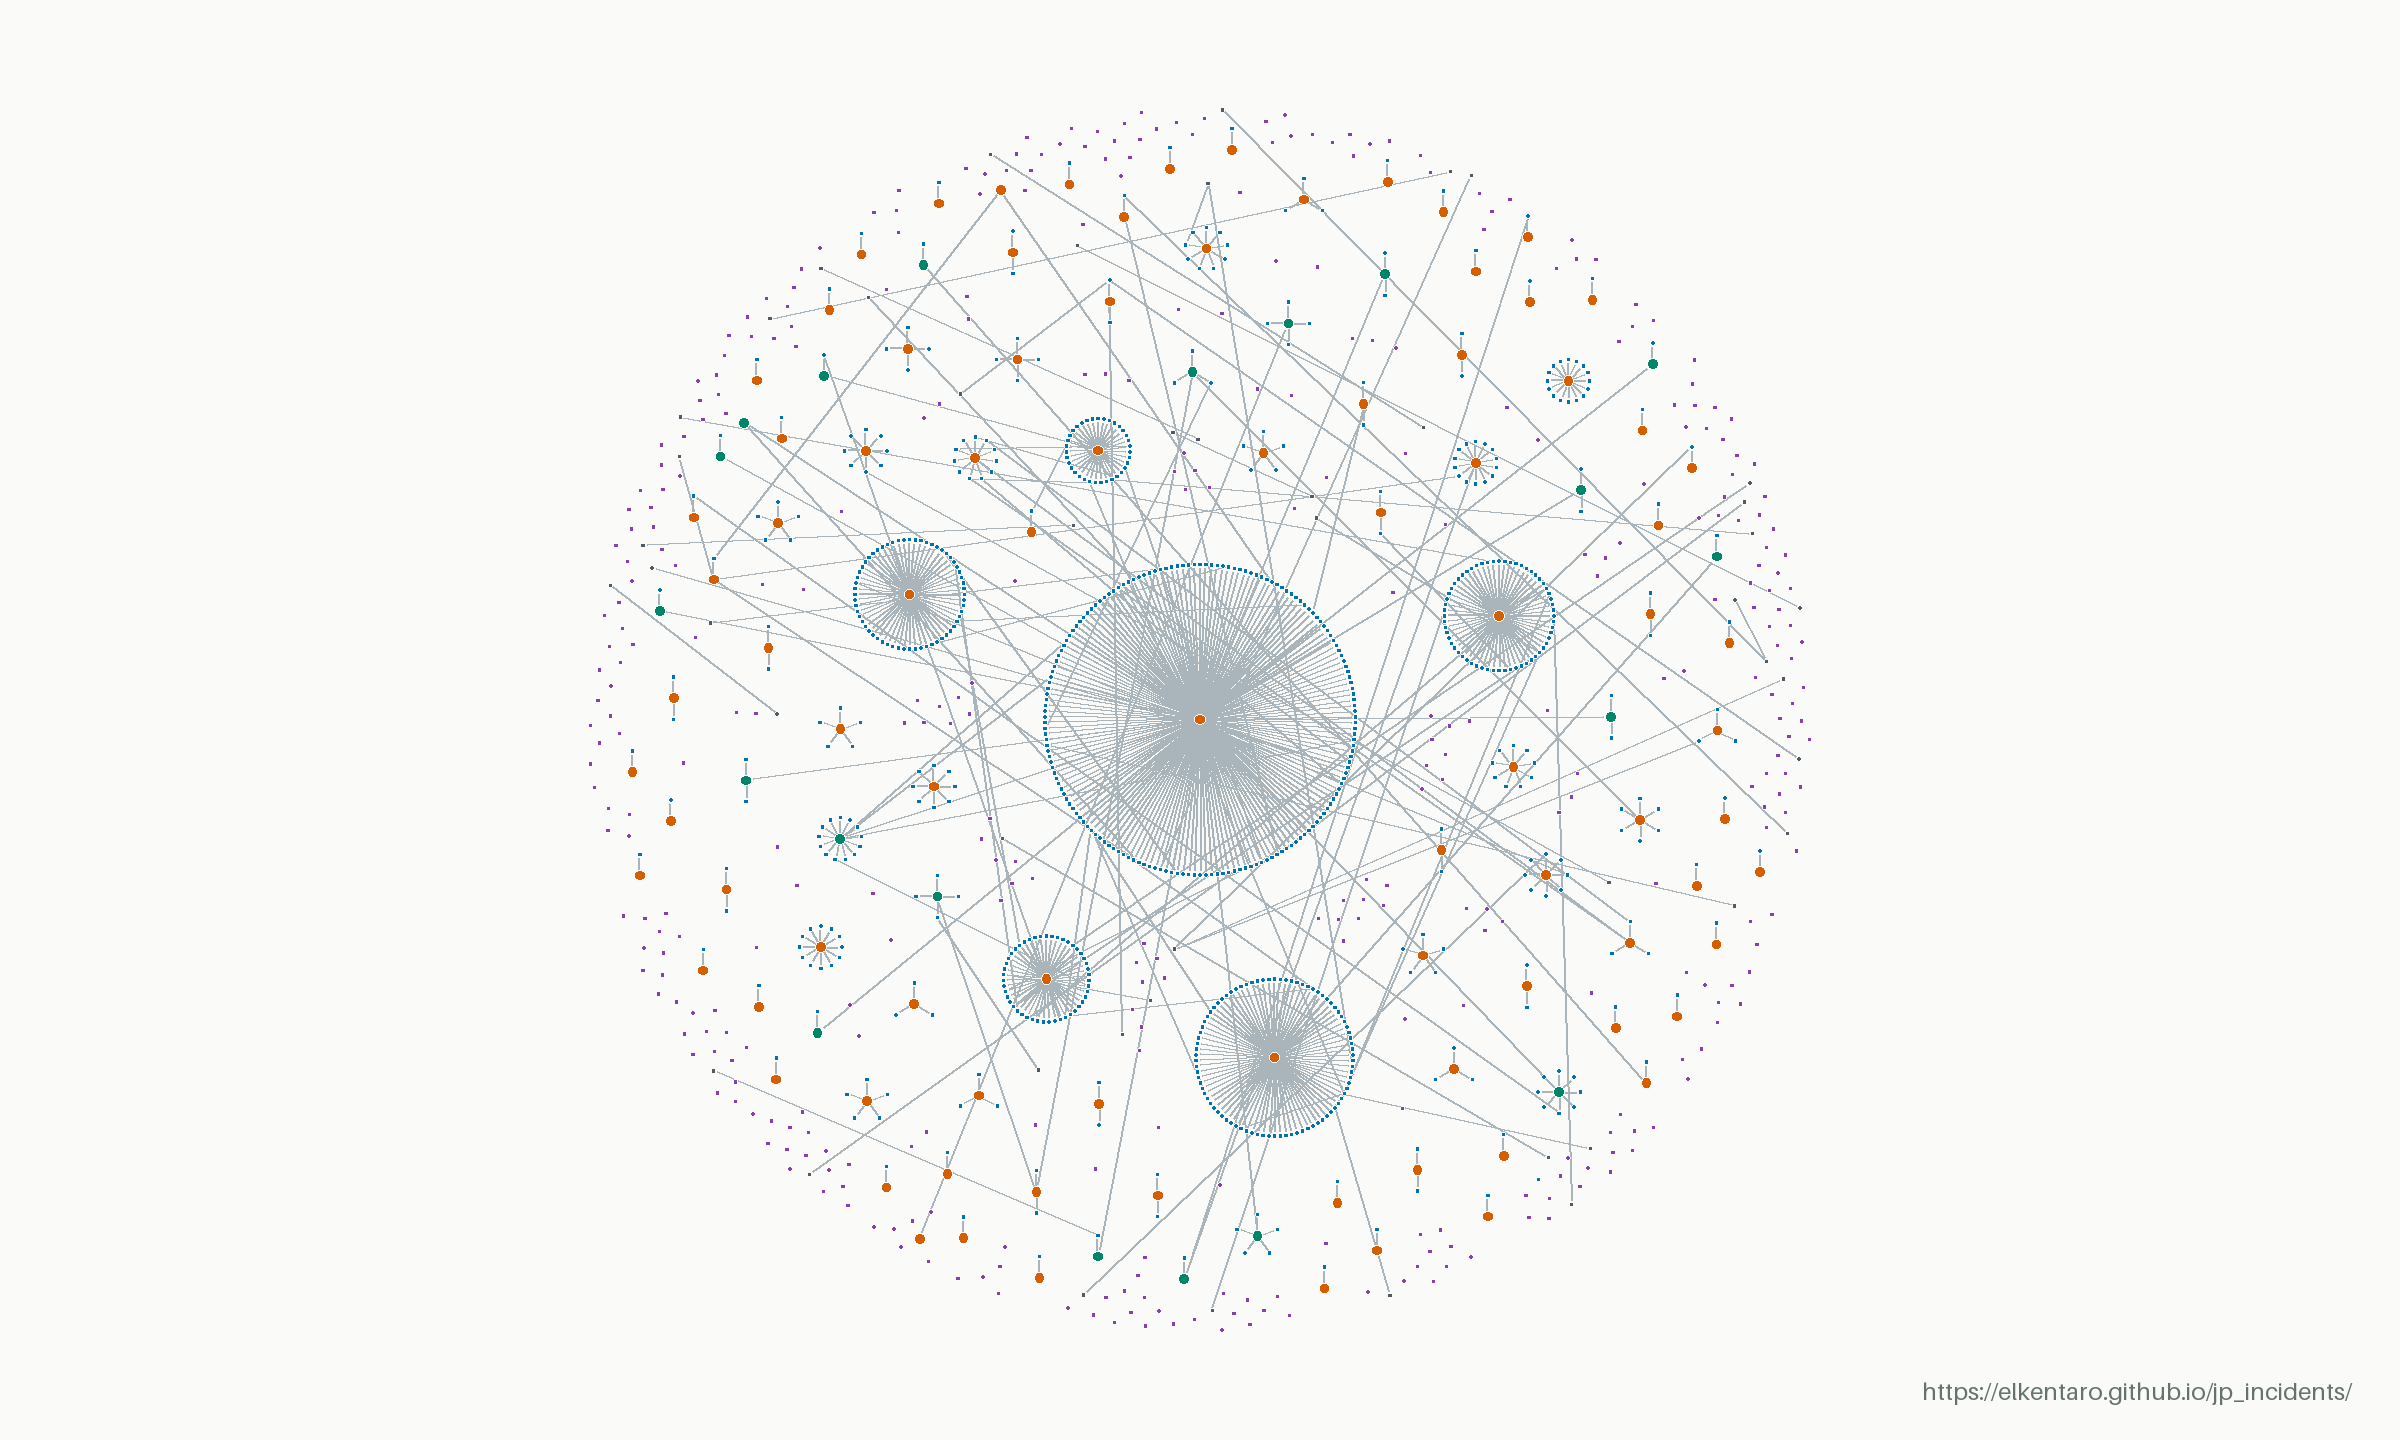
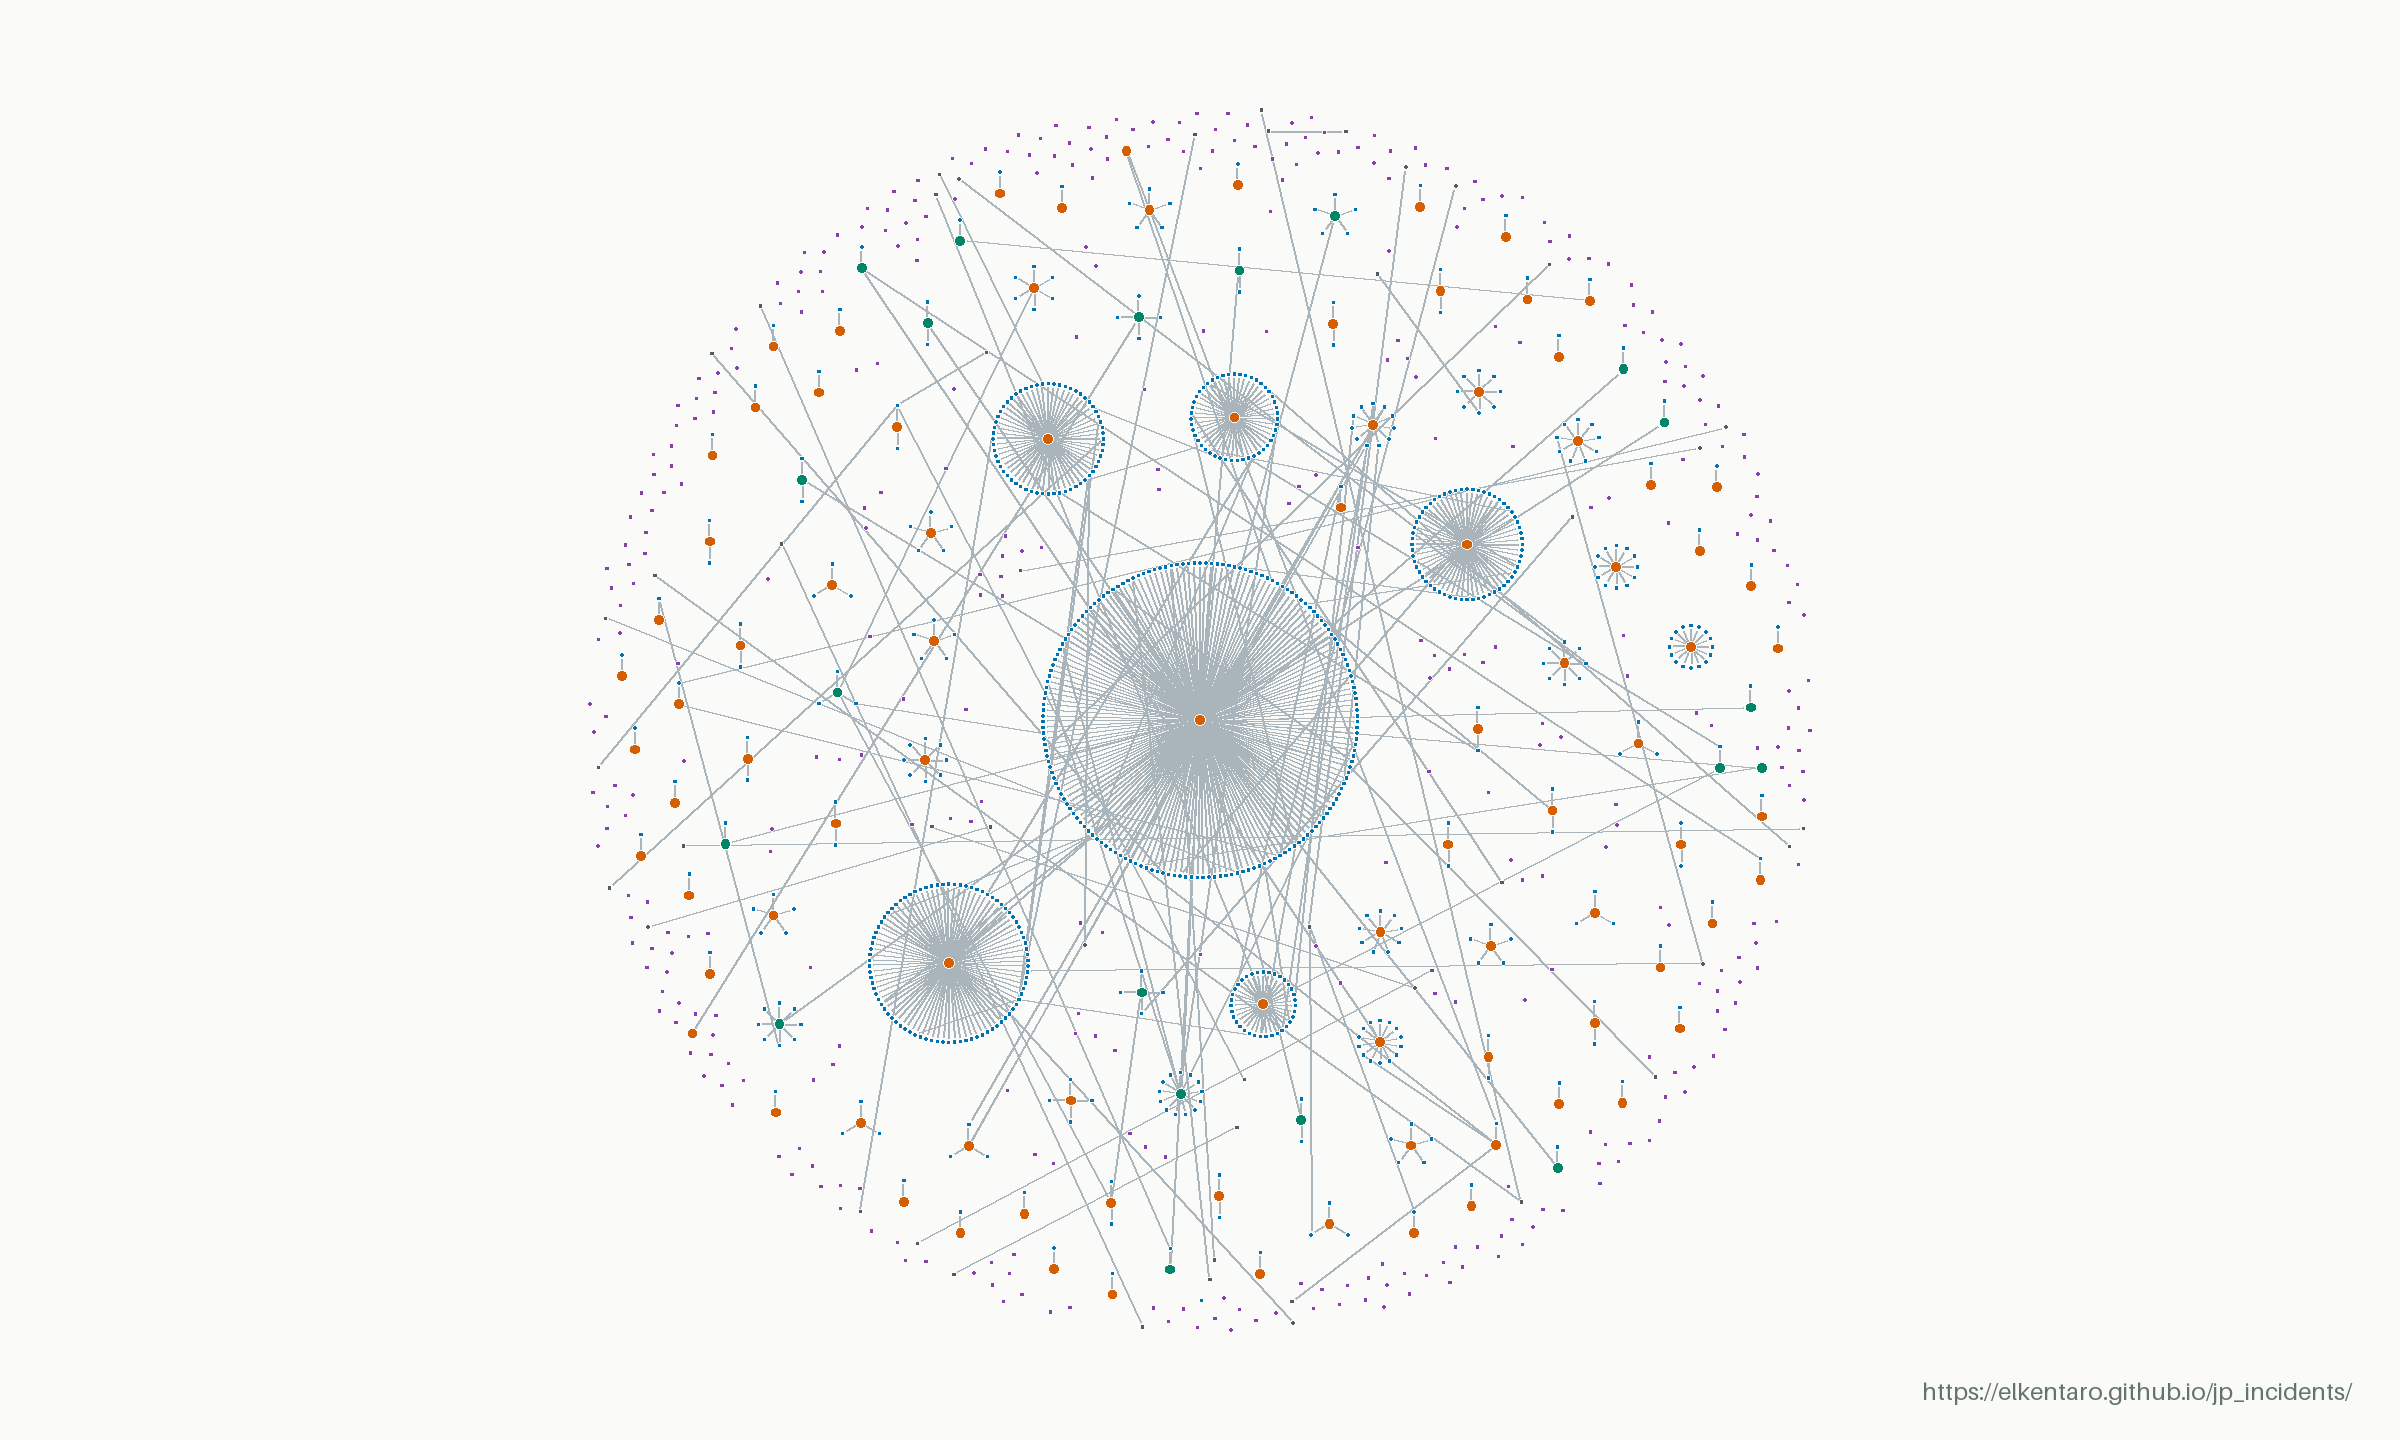
Update incident data (2026-11-16 13:17 UTC)

diff --git a/linkage.html b/linkage.html
@@ -32,17 +32,17 @@
     </section>
     <section class="direct-summary" aria-labelledby="direct-title">
       <dl class="direct-stats">
-        <div class="direct-total"><dt id="direct-title" data-copy="direct">Direct incidents</dt><dd id="direct-count">514</dd></div>
+        <div class="direct-total"><dt id="direct-title" data-copy="direct">Direct incidents</dt><dd id="direct-count">516</dd></div>
         <div><dt data-copy="directUpstream">Upstream incidents</dt><dd id="upstream-count">90</dd></div>
-        <div><dt data-copy="directStandalone">Standalone incidents</dt><dd id="standalone-count">424</dd></div>
+        <div><dt data-copy="directStandalone">Standalone incidents</dt><dd id="standalone-count">426</dd></div>
       </dl>
-      <p class="direct-excluded"><strong id="downstream-count">759</strong> <span data-copy="directExcluded">downstream records excluded, including incidents with both roles.</span></p>
+      <p class="direct-excluded"><strong id="downstream-count">761</strong> <span data-copy="directExcluded">downstream records excluded, including incidents with both roles.</span></p>
       <p class="direct-definition" data-copy="directDefinition">Direct incidents = upstream + standalone, based on recorded causal links. Standalone incidents have no upstream or downstream causal links, but may have other links, such as separate events at the same organization.</p>
     </section>
     <dl class="map-stats">
-      <div><dt data-copy="total">Incidents in snapshot</dt><dd>1273</dd></div>
-      <div><dt data-copy="linked">With recorded connections</dt><dd>895</dd></div>
-      <div><dt data-copy="links">Recorded connections</dt><dd>846</dd></div>
+      <div><dt data-copy="total">Incidents in snapshot</dt><dd>1277</dd></div>
+      <div><dt data-copy="linked">With recorded connections</dt><dd>897</dd></div>
+      <div><dt data-copy="links">Recorded connections</dt><dd>848</dd></div>
       <div><dt data-copy="networks">Connected networks</dt><dd>78</dd></div>
     </dl>
     <figure class="map-figure">
@@ -50,13 +50,13 @@
         <img src="data/linkage-map.png" width="2400" height="1440" alt="Anonymized incident map. Orange upstream hubs connect to blue downstream incidents; purple unlinked incidents appear throughout the same map without connecting lines." data-copy-alt="alt">
       </div>
       <figcaption>
-        <div class="map-caption-meta"><span><span data-copy="updated">Last updated</span>: <time datetime="2026-11-16T12:16:35.635902+00:00">2026-11-16 12:16 UTC</time></span><a href="data/linkage-map.png" target="_blank" rel="noopener" data-copy="open">Open full-resolution image ↗</a></div>
+        <div class="map-caption-meta"><span><span data-copy="updated">Last updated</span>: <time datetime="2026-11-16T13:16:58.273278+00:00">2026-11-16 13:16 UTC</time></span><a href="data/linkage-map.png" target="_blank" rel="noopener" data-copy="open">Open full-resolution image ↗</a></div>
         <div class="map-key-section">
           <strong id="map-key-title" data-copy="key">Key</strong>
           <ul class="map-key" aria-labelledby="map-key-title">
             <li><span class="key-dot upstream" aria-hidden="true"></span><span data-copy="keyUpstream">Upstream</span></li>
             <li><span class="key-dot downstream" aria-hidden="true"></span><span data-copy="keyDownstream">Downstream</span></li>
-            <li><span class="key-dot standalone" aria-hidden="true"></span><span data-copy="keyStandalone">Unlinked</span><span>(378)</span></li>
+            <li><span class="key-dot standalone" aria-hidden="true"></span><span data-copy="keyStandalone">Unlinked</span><span>(380)</span></li>
             <li><span class="key-dot both" aria-hidden="true"></span><span data-copy="keyBoth">Both roles</span></li>
             <li><span class="key-dot related" aria-hidden="true"></span><span data-copy="keyRelated">Other related</span></li>
             <li><span class="key-line" aria-hidden="true"></span><span data-copy="keyRelationship">Recorded relationship</span></li>
@@ -69,7 +69,7 @@
       <section><h2 data-copy="readingTitle">Reading the map</h2><p data-copy="reading">Orange marks upstream incidents, blue downstream incidents, and purple unlinked incidents with no recorded connection. Teal marks incidents with both upstream and downstream roles; charcoal marks other related incidents. A missing connection does not establish that two incidents are unrelated.</p></section>
       <section><h2 data-copy="snapshotTitle">About this snapshot</h2><p data-copy="snapshot">The static image is refreshed when published incidents or relationships change, and at least every 24 hours during normal publication. Larger upstream clusters have extra spacing to keep their victims apart. Names, incident IDs, source links and incident dates are omitted; the connection pattern is retained. It is an overview of recorded relationships, not a complete map of cyber incidents in Japan.</p></section>
     </div>
-    <p class="map-source"><span data-copy="sourceUpdated">Source data updated</span>: <time datetime="2026-11-16T12:16:35+00:00">2026-11-16T12:16:35+00:00</time> · <a href="./" data-copy="browse">Browse the incident index</a></p>
+    <p class="map-source"><span data-copy="sourceUpdated">Source data updated</span>: <time datetime="2026-11-16T13:16:58+00:00">2026-11-16T13:16:58+00:00</time> · <a href="./" data-copy="browse">Browse the incident index</a></p>
   </main>
   <footer><div class="shell footer-inner"><p data-copy="footer">Public reports. Recorded relationships. An anonymized overview.</p><a href="./" data-copy="back">Back to incidents</a></div></footer>
   <script src="linkage.js?v=20261107-spacing" defer></script>
